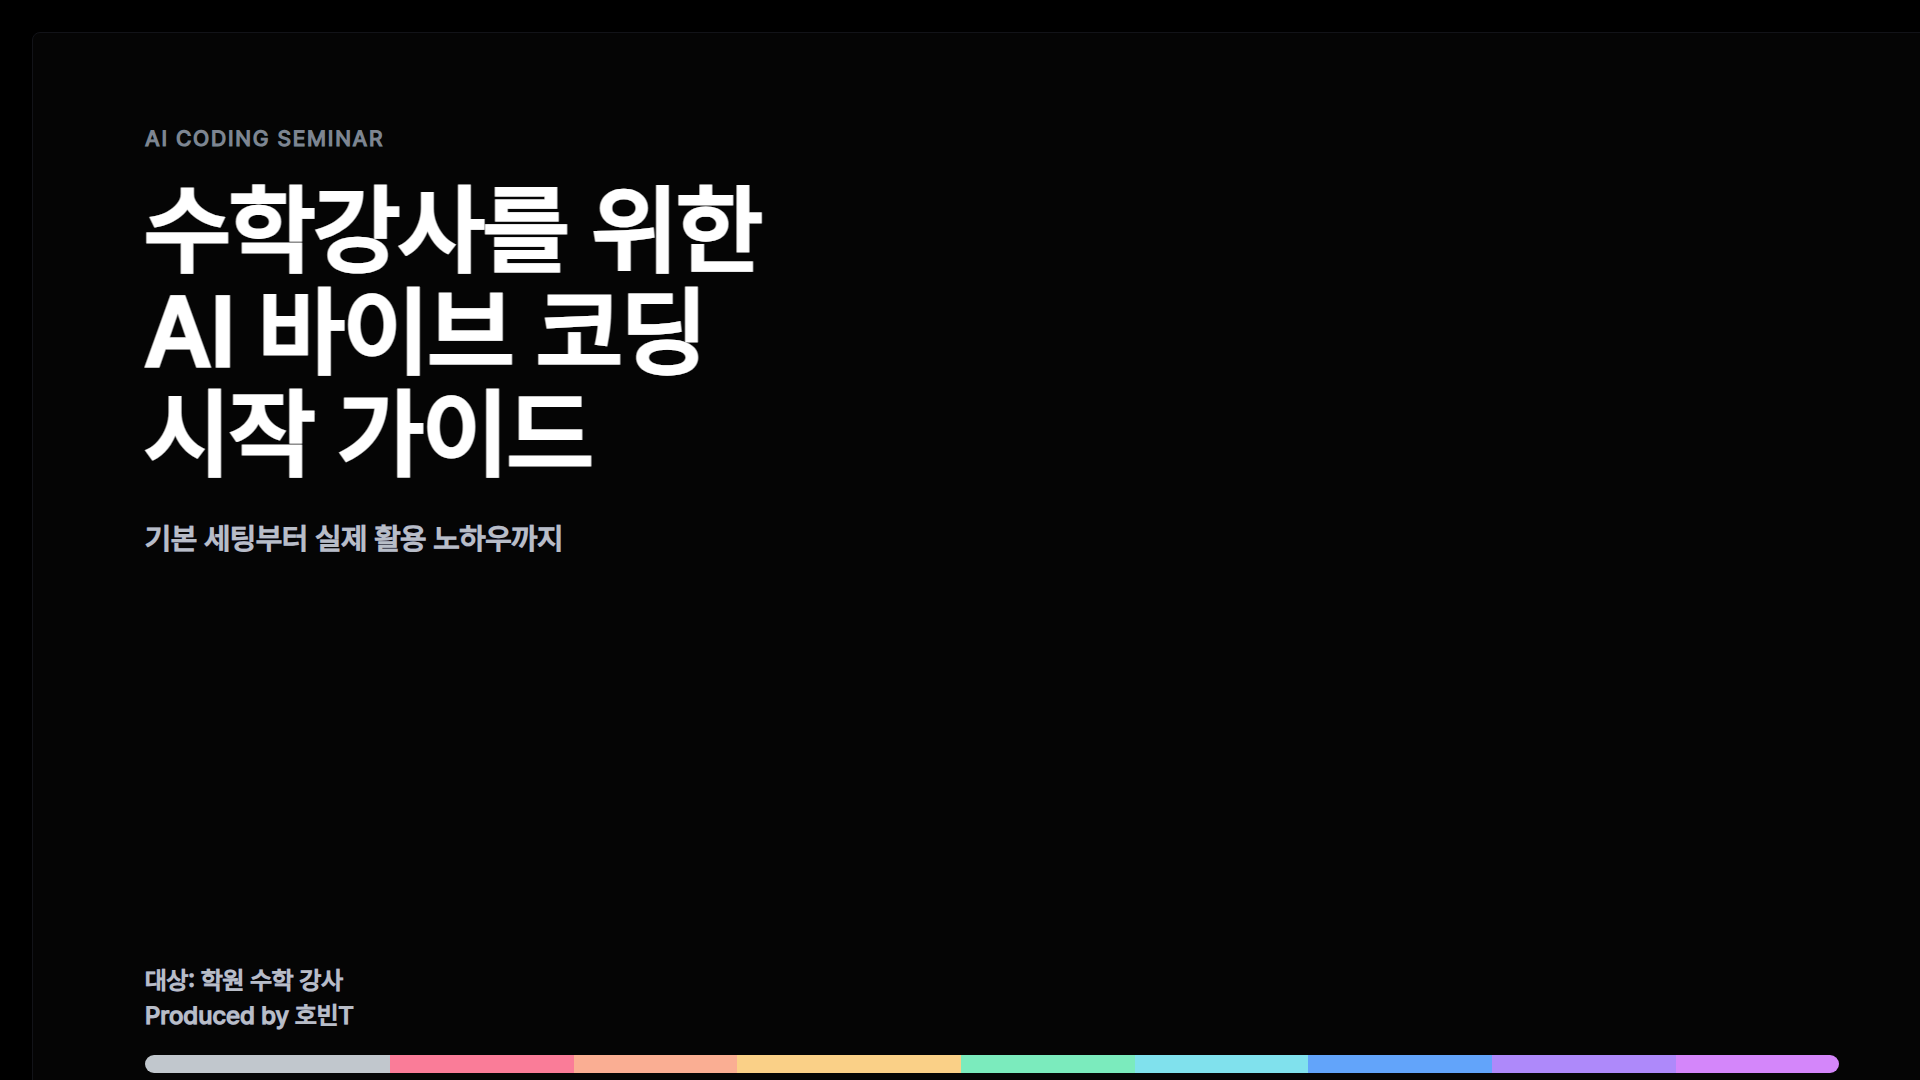
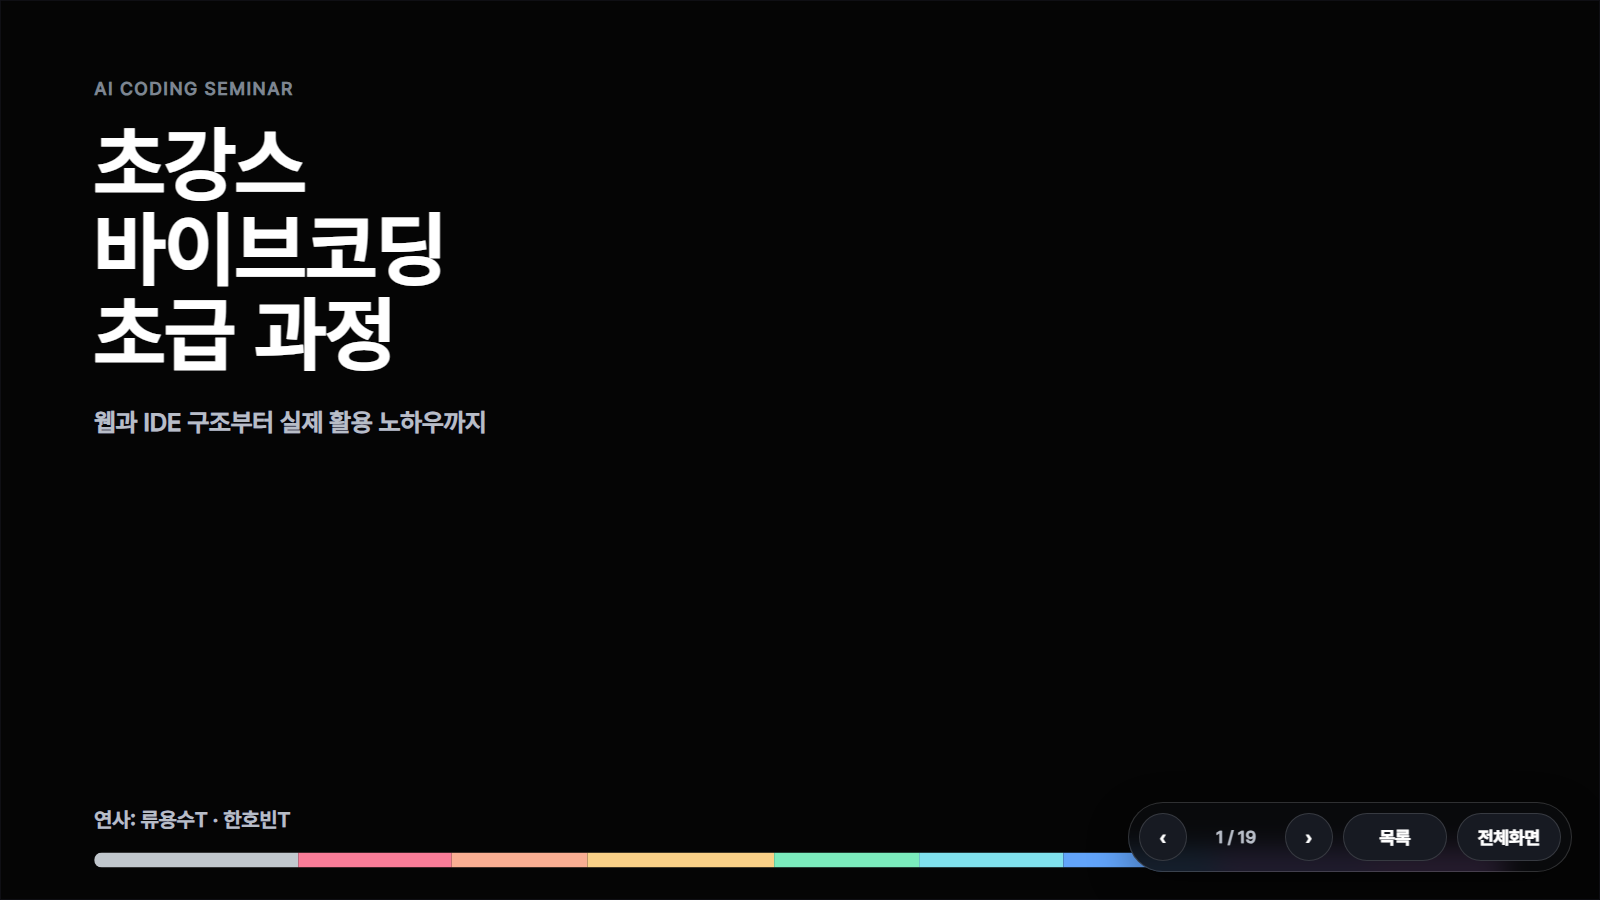
Update public deck title and structure

Changed region(s): [[0.0625, 0.0933, 0.4062, 0.5289], [0.0625, 0.8711, 1.0, 0.9956]]

diff --git a/decks/ai-vibe-coding-math-teachers/index.html b/decks/ai-vibe-coding-math-teachers/index.html
@@ -3,7 +3,7 @@
 <head>
   <meta charset="utf-8">
   <meta name="viewport" content="width=device-width, initial-scale=1">
-  <title>수학강사를 위한 AI 바이브 코딩 시작 가이드</title>
+  <title>초강스 바이브코딩 초급 과정</title>
   <style>
     :root {
       --bg: #050505;
@@ -804,7 +804,7 @@
 <body class="presenting">
   <nav class="deck-controls" aria-label="발표 컨트롤">
     <button type="button" id="prevSlide" aria-label="이전 슬라이드">‹</button>
-    <div class="slide-status" id="slideStatus">1 / 22</div>
+    <div class="slide-status" id="slideStatus">1 / 19</div>
     <button type="button" id="nextSlide" aria-label="다음 슬라이드">›</button>
     <button type="button" class="wide-control" id="toggleOverview">목록</button>
     <button type="button" class="wide-control" id="toggleFullscreen">전체화면</button>
@@ -813,28 +813,27 @@
     <section class="slide">
       <div class="inner">
         <div class="label">AI CODING SEMINAR</div>
-        <h1>수학강사를 위한<br>AI 바이브 코딩<br>시작 가이드</h1>
-        <p class="subtitle">기본 세팅부터 실제 활용 노하우까지</p>
-        <p class="meta">대상: 학원 수학 강사<br>Produced by 호빈T</p>
+        <h1>초강스<br>바이브코딩<br>초급 과정</h1>
+        <p class="subtitle">웹과 IDE 구조부터 실제 활용 노하우까지</p>
+        <p class="meta">연사: 류용수T · 한호빈T</p>
       </div>
       <div class="progress"><span></span><span></span><span></span><span></span><span></span><span></span><span></span><span></span><span></span></div>
     </section>
 
     <section class="slide">
-      <div class="slide-no">02 / 22</div>
+      <div class="slide-no">02 / 19</div>
       <div class="inner">
         <div class="two-col">
           <div>
             <div class="label">CONTENTS</div>
             <h2>오늘 얻어갈 것</h2>
-            <p class="subtitle">개발자가 되는 강의가 아니라,<br>AI와 일하는 방식을 익히는 강의입니다.</p>
+            <p class="subtitle">도구 소개보다 중요한 것은<br>AI를 핸들링하는 구조를 익히는 것입니다.</p>
           </div>
           <div class="agenda">
             <div class="agenda-item"><span>01</span>AI 바이브 코딩 이해</div>
             <div class="agenda-item"><span>02</span>웹 LLM vs 작업환경</div>
-            <div class="agenda-item"><span>03</span>Codex 기본 작업 루프</div>
             <div class="agenda-item"><span>04</span>프롬프트에서 하네스로</div>
-            <div class="agenda-item"><span>05</span>수학강사 프로젝트 쇼케이스</div>
+            <div class="agenda-item"><span>05</span>프로젝트 쇼케이스</div>
           </div>
         </div>
       </div>
@@ -842,7 +841,7 @@
     </section>
 
     <section class="slide">
-      <div class="slide-no">03 / 22</div>
+      <div class="slide-no">03 / 19</div>
       <div class="inner">
         <div class="label">WHY NOW</div>
         <h2>AI는 수업 준비와 운영의 진입장벽을 낮추고 있습니다.</h2>
@@ -857,7 +856,7 @@
     </section>
 
     <section class="slide">
-      <div class="slide-no">04 / 22</div>
+      <div class="slide-no">04 / 19</div>
       <div class="inner">
         <div class="label">DEFINE</div>
         <h2>바이브 코딩은<br><span class="accent-pink">"그냥 만들어줘"</span>가 아닙니다.</h2>
@@ -873,7 +872,7 @@
     </section>
 
     <section class="slide">
-      <div class="slide-no">05 / 22</div>
+      <div class="slide-no">05 / 19</div>
       <div class="inner">
         <div class="label">MATH TEACHER WORKFLOW</div>
         <h2>수학강사의 업무는 이미<br>AI와 잘 맞는 구조입니다.</h2>
@@ -890,7 +889,7 @@
     </section>
 
     <section class="slide">
-      <div class="slide-no">06 / 22</div>
+      <div class="slide-no">06 / 19</div>
       <div class="inner">
         <div class="label">LEVELS</div>
         <h2>AI 활용은 질문형에서<br>제품형으로 확장됩니다.</h2>
@@ -905,7 +904,7 @@
     </section>
 
     <section class="slide">
-      <div class="slide-no">07 / 22</div>
+      <div class="slide-no">07 / 19</div>
       <div class="inner">
         <div class="label">WEB LLM VS WORKSPACE</div>
         <h2>대화창에서 작업공간으로 이동해야 할 때가 있습니다.</h2>
@@ -936,7 +935,7 @@
     </section>
 
     <section class="slide">
-      <div class="slide-no">08 / 22</div>
+      <div class="slide-no">08 / 19</div>
       <div class="inner">
         <div class="label">WHEN TO USE</div>
         <h2>답변이 필요하면 웹 LLM,<br>결과물이 필요하면 작업환경.</h2>
@@ -965,7 +964,7 @@
     </section>
 
     <section class="slide">
-      <div class="slide-no">09 / 22</div>
+      <div class="slide-no">09 / 19</div>
       <div class="inner">
         <div class="label">SETUP BEFORE TOOLS</div>
         <h2>AI 코딩은 계정보다<br>작업공간 관리가 먼저입니다.</h2>
@@ -981,18 +980,19 @@
     </section>
 
     <section class="slide">
-      <div class="slide-no">10 / 22</div>
+      <div class="slide-no">10 / 19</div>
       <div class="inner">
         <div class="two-col top">
           <div>
-            <div class="label">GOOGLE ANTIGRAVITY</div>
-            <h2>Gemini 기반 에이전트형 작업환경</h2>
-            <p class="subtitle">이번 발표에서는 비교와 소개 수준으로 다룹니다.</p>
+            <div class="label">AI CODING ENVIRONMENT</div>
+            <h2>웹과 IDE 구조를 구분하면<br>도구 선택이 쉬워집니다.</h2>
+            <p class="subtitle">Claude, Gemini, GPT 중 무엇을 쓰든 핵심은 사용자가 목표와 기준을 어떻게 핸들링하느냐입니다.</p>
           </div>
           <div class="formula">
-            <div class="formula-row"><strong>Agent</strong><span>작업을 계획하고 실행하는 흐름</span></div>
-            <div class="formula-row"><strong>Desktop / CLI</strong><span>로컬 작업공간과 연결되는 개발환경</span></div>
-            <div class="formula-row"><strong>Google</strong><span>Gemini와 Google 생태계 기반 확장성</span></div>
+            <div class="formula-row"><strong>Claude</strong><span>웹 대화창에서 Claude Code 작업환경으로 확장</span></div>
+            <div class="formula-row"><strong>Gemini</strong><span>웹 대화창에서 Antigravity 작업환경으로 확장</span></div>
+            <div class="formula-row"><strong>GPT</strong><span>웹 대화창에서 Codex 작업환경으로 확장</span></div>
+            <div class="formula-row"><strong>핵심</strong><span>도구 이름보다 목표, 자료, 제약, 검증 기준을 주는 방식이 더 중요</span></div>
           </div>
         </div>
       </div>
@@ -1000,65 +1000,7 @@
     </section>
 
     <section class="slide">
-      <div class="slide-no">11 / 22</div>
-      <div class="inner">
-        <div class="two-col top">
-          <div>
-            <div class="label">OPENAI CODEX</div>
-            <h2>이번 실전 설명은<br>Codex를 중심으로 진행합니다.</h2>
-            <p class="subtitle">사람은 목표와 기준을 제시하고, AI는 파일을 읽고 수정하며 결과를 확인합니다.</p>
-          </div>
-          <div class="formula">
-            <div class="formula-row"><strong>Read</strong><span>작업 폴더와 파일 구조 이해</span></div>
-            <div class="formula-row"><strong>Edit</strong><span>코드와 문서를 직접 수정</span></div>
-            <div class="formula-row"><strong>Run</strong><span>명령 실행과 오류 확인</span></div>
-            <div class="formula-row"><strong>Review</strong><span>결과를 검토하고 다시 요청</span></div>
-          </div>
-        </div>
-      </div>
-      <div class="progress"><span></span><span></span><span></span><span></span><span></span><span></span><span></span><span></span><span></span></div>
-    </section>
-
-    <section class="slide">
-      <div class="slide-no">12 / 22</div>
-      <div class="inner">
-        <div class="label">START SMALL</div>
-        <h2>첫 프로젝트는<br>작아야 합니다.</h2>
-        <p class="quote">1시간 안에 확인 가능하고, 실패해도 위험하지 않으며, 내 업무와 바로 연결되는 작업부터 시작합니다.</p>
-        <div class="keyword-grid">
-          <div class="keyword"><strong>문제지 생성기</strong><em>조건에 맞춘 문항 초안</em></div>
-          <div class="keyword"><strong>풀이 검토기</strong><em>해설 흐름과 오류 확인</em></div>
-          <div class="keyword"><strong>상담 문구 초안</strong><em>학생 상황별 전달 문구</em></div>
-          <div class="keyword"><strong>수업자료 변환</strong><em>블로그, 카드뉴스, 프린트</em></div>
-        </div>
-      </div>
-      <div class="progress"><span></span><span></span><span></span><span></span><span></span><span></span><span></span><span></span><span></span></div>
-    </section>
-
-    <section class="slide">
-      <div class="slide-no">13 / 22</div>
-      <div class="inner">
-        <div class="loop-wrap">
-          <div class="loop">
-            <div class="loop-title">Codex<br>작업 루프</div>
-            <div class="node n1">요구사항</div>
-            <div class="node n2">요청</div>
-            <div class="node n3">실행</div>
-            <div class="node n4">확인</div>
-            <div class="node n5">수정</div>
-          </div>
-          <div>
-            <div class="label">LIVE DEMO</div>
-            <h2>데모 주제는 발표 중 함께 선정합니다.</h2>
-            <p class="subtitle">작은 주제를 정하고, Codex에 요청하고, 결과를 확인한 뒤 다시 수정하는 과정을 보여드립니다.</p>
-          </div>
-        </div>
-      </div>
-      <div class="progress"><span></span><span></span><span></span><span></span><span></span><span></span><span></span><span></span><span></span></div>
-    </section>
-
-    <section class="slide">
-      <div class="slide-no">14 / 22</div>
+      <div class="slide-no">11 / 19</div>
       <div class="inner">
         <div class="label">PROMPT ENGINEERING</div>
         <h2>좋은 질문은 여전히 중요하지만,<br>질문만으로는 한계가 있습니다.</h2>
@@ -1073,7 +1015,7 @@
     </section>
 
     <section class="slide">
-      <div class="slide-no">15 / 22</div>
+      <div class="slide-no">12 / 19</div>
       <div class="inner">
         <div class="label">CONTEXT ENGINEERING</div>
         <h2>AI 성능은 질문보다<br>제공한 맥락과 기준에 좌우됩니다.</h2>
@@ -1090,7 +1032,7 @@
     </section>
 
     <section class="slide">
-      <div class="slide-no">16 / 22</div>
+      <div class="slide-no">13 / 19</div>
       <div class="inner">
         <div class="loop-wrap">
           <div class="loop">
@@ -1112,7 +1054,7 @@
     </section>
 
     <section class="slide">
-      <div class="slide-no">17 / 22</div>
+      <div class="slide-no">14 / 19</div>
       <div class="inner">
         <div class="label">MATH CONTEXT TEMPLATE</div>
         <h2>수학강사용 컨텍스트를<br>표준화하면 결과가 안정됩니다.</h2>
@@ -1128,7 +1070,7 @@
     </section>
 
     <section class="slide">
-      <div class="slide-no">18 / 22</div>
+      <div class="slide-no">15 / 19</div>
       <div class="inner">
         <div class="label">REQUEST PATTERN</div>
         <h2>목표, 자료, 제약, 검증 기준을 함께 주면 시행착오가 줄어듭니다.</h2>
@@ -1144,7 +1086,7 @@
     </section>
 
     <section class="slide">
-      <div class="slide-no">19 / 22</div>
+      <div class="slide-no">16 / 19</div>
       <div class="inner">
         <div class="showcase">
           <div>
@@ -1173,7 +1115,7 @@
     </section>
 
     <section class="slide">
-      <div class="slide-no">20 / 22</div>
+      <div class="slide-no">17 / 19</div>
       <div class="inner">
         <div class="showcase-wide">
           <div>
@@ -1206,7 +1148,7 @@
     </section>
 
     <section class="slide">
-      <div class="slide-no">21 / 22</div>
+      <div class="slide-no">18 / 19</div>
       <div class="inner">
         <div class="showcase">
           <div>
@@ -1235,7 +1177,7 @@
     </section>
 
     <section class="slide">
-      <div class="slide-no">22 / 22</div>
+      <div class="slide-no">19 / 19</div>
       <div class="inner">
         <div class="label">NEXT STEP</div>
         <h2>오늘부터 작은 문제 하나를 정하고,<br>반복 루프를 경험해봅시다.</h2>

diff --git a/index.html b/index.html
@@ -283,20 +283,20 @@
         <div>
           <div class="meta">
             <span class="pill done">완료</span>
-            <span class="pill">22 slides</span>
+            <span class="pill">19 slides</span>
             <span class="pill">HTML deck</span>
             <span class="pill">2026-06</span>
           </div>
-          <h3>수학강사를 위한 AI 바이브 코딩 시작 가이드</h3>
-          <p class="desc">수학 강사를 대상으로 AI 바이브 코딩의 기본 세팅, 작업 환경 차이, 컨텍스트/하네스 엔지니어링, 실제 프로젝트 예시를 설명하는 1시간 발표자료입니다.</p>
+          <h3>초강스 바이브코딩 초급 과정</h3>
+          <p class="desc">웹 LLM과 IDE/에이전트형 작업환경의 구조, AI 핸들링 방식, 컨텍스트/하네스 엔지니어링, 실제 프로젝트 예시를 설명하는 1시간 발표자료입니다.</p>
         </div>
         <div class="actions">
           <a class="button primary" href="./decks/ai-vibe-coding-math-teachers/">웹 발표 열기</a>
           <a class="button" href="https://github.com/hanhobin1011-cmyk/seminar-presentation-public">GitHub 저장소</a>
         </div>
       </div>
-      <a class="preview" href="./decks/ai-vibe-coding-math-teachers/" aria-label="수학강사를 위한 AI 바이브 코딩 시작 가이드 웹 발표 열기">
-        <img src="./decks/ai-vibe-coding-math-teachers/assets/preview-cover.png" alt="수학강사를 위한 AI 바이브 코딩 시작 가이드 표지 미리보기">
+      <a class="preview" href="./decks/ai-vibe-coding-math-teachers/" aria-label="초강스 바이브코딩 초급 과정 웹 발표 열기">
+        <img src="./decks/ai-vibe-coding-math-teachers/assets/preview-cover.png" alt="초강스 바이브코딩 초급 과정 표지 미리보기">
       </a>
     </article>
 

diff --git a/README.md b/README.md
@@ -5,13 +5,13 @@
 ## 웹 주소
 
 - 발표자료 목록: https://hanhobin1011-cmyk.github.io/seminar-presentation-public/
-- 수학강사를 위한 AI 바이브 코딩 시작 가이드: https://hanhobin1011-cmyk.github.io/seminar-presentation-public/decks/ai-vibe-coding-math-teachers/
+- 초강스 바이브코딩 초급 과정: https://hanhobin1011-cmyk.github.io/seminar-presentation-public/decks/ai-vibe-coding-math-teachers/
 
 ## 포함 자료
 
 | 발표자료 | 경로 | 설명 |
 | --- | --- | --- |
-| 수학강사를 위한 AI 바이브 코딩 시작 가이드 | `decks/ai-vibe-coding-math-teachers/` | 22장 HTML 발표자료 |
+| 초강스 바이브코딩 초급 과정 | `decks/ai-vibe-coding-math-teachers/` | 19장 HTML 발표자료 |
 
 ## 운영 원칙
 